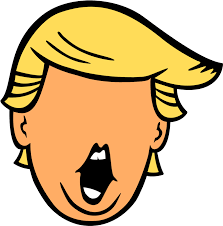
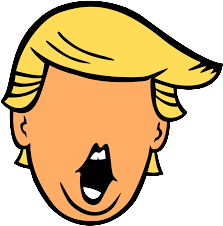
trumphead slider - no background - from folder

diff --git a/stylesheets/main.css b/stylesheets/main.css
@@ -88,7 +88,7 @@ input[type=range] {
     width: 25px;
     border-radius: 3px;
     background-color:transparent;
-    background: url(https://www.pinclipart.com/picdir/big/414-4147474_free-donald-trump-icon-donald-trump-head-icon.png) center center no-repeat;
+    background: url(../pictures/trumphead.png) center center no-repeat;
     background-size: cover;
     cursor: pointer;
     -webkit-appearance: none;
